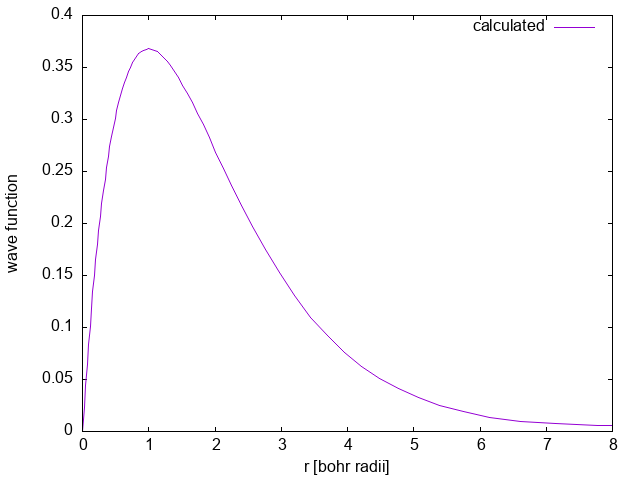
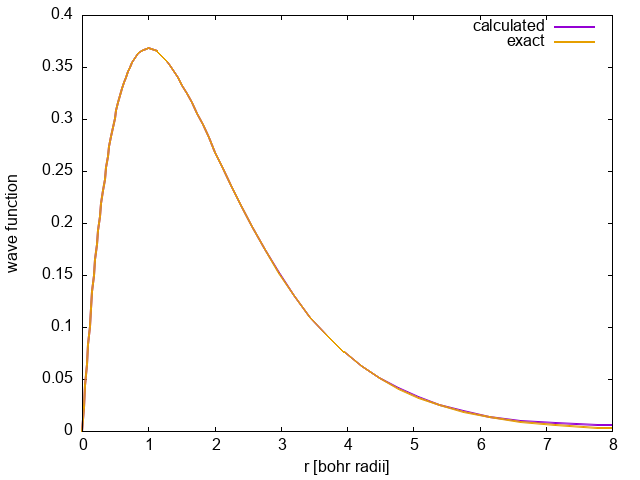
-

diff --git a/homeworks/roots/A/roots.cs b/homeworks/roots/A/roots.cs
@@ -8,25 +8,18 @@ public static class roots{
 static public vector newton(Func<vector,vector>f, vector x, double eps=1e-2){
 int nsteps=0;
 while(nsteps<1000){
-x.print("x=",file:System.Console.Error);
 	nsteps++;
 	vector fx=f(x);
     if(fx.norm() < eps){ break; }
     var J = jacobian(f, x); // J -> matrix
-J.print("J=");
     var (Q,R) = decomp(J); // Q,R -> matrix
-Q.print("Q=");
-R.print("R=");
     vector dx = solve(Q,R,-fx);
-dx.print("dx=",file:System.Console.Error);
     double lambda = 1;
     while(f(x+lambda*dx).norm() > (1-lambda/2)*fx.norm() && lambda >= Pow(2,-13) ){
-	System.Console.Error.WriteLine($"{lambda}");
 	lambda /= 2;
     }
     x += lambda*dx;
 }
-System.Console.Error.Write($"nsteps={nsteps}\n");
 return x;
 } // newton's method
 public static matrix jacobian(Func<vector,vector>f, vector x){

diff --git a/homeworks/roots/B/main.cs b/homeworks/roots/B/main.cs
@@ -38,8 +38,10 @@ double rmax = 8.0;
 double E = energy(rmin,rmax);
 var (r,psi) = radial_wave_function(E, rmin, rmax);
 WriteLine($"The lowest energy E0, found for rmin = {rmin} and rmax = {rmax}: {E} Hartree.");
-WriteLine("Exact result: -0.5 Hartree.");
+WriteLine("Exact result: -0.5 Hartree (given in exercise).");
 WriteLine("\n\n\n");
 for(int i=0;i<r.size;i++){WriteLine($"{r[i]}    {psi[i][0]}");}
+WriteLine("\n\n\n");
+for(int i=0;i<r.size;i++){WriteLine($"{r[i]}    {r[i]*Exp(-r[i])}");}
 } // Main
 } // class main
